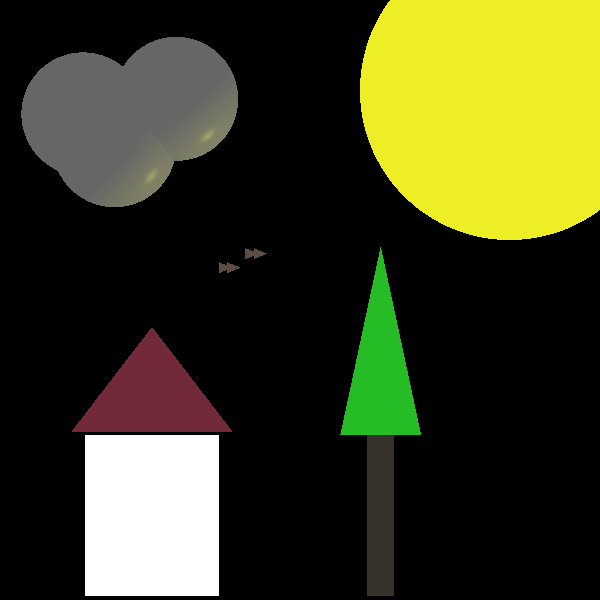
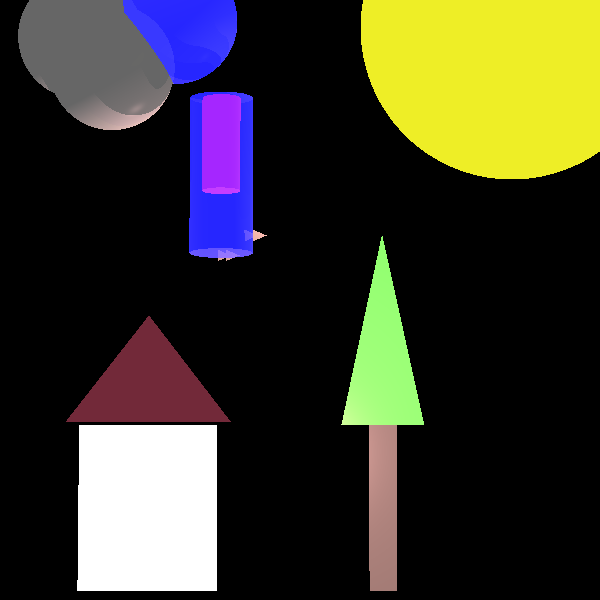
added cylinders and moved the camera in bonus pic

diff --git a/unitTests/renderer/ReflectionRefractionTests.java b/unitTests/renderer/ReflectionRefractionTests.java
@@ -5,6 +5,7 @@ package renderer;
 
 import static java.awt.Color.*;
 
+import geometries.Cylinder;
 import geometries.Polygon;
 import lighting.DirectionalLight;
 import lighting.PointLight;
@@ -81,7 +82,7 @@ public class ReflectionRefractionTests {
          .writeToImage();
    }
 
-   /** Produce a picture of a two triangles lighted by a spot light with a
+   /** Produce a picture of two triangles lighted by a spot light with a
     * partially
     * transparent Sphere producing partial shadow */
    @Test
@@ -109,9 +110,13 @@ public class ReflectionRefractionTests {
          .writeToImage();
    }
    @Test
-
    public void allefectTestBounos() {
-      Camera camera = new Camera(new Point(0, 0, -1000), new Vector(0, 0, 1), new Vector(0, -1, 0)) .setVPSize(200, 200).setVPDistance(1000);
+      Camera camera = new Camera(new Point(0, 0, -1000), new Vector(0, 0, 1), new Vector(0, -1, 0))
+              .setVPSize(200, 200)
+              .moveTo(10)
+              .turnUp(8.1)
+              .moveUp(-160)
+              .setVPDistance(1000);
       scene.setAmbientLight(new AmbientLight(new Color(WHITE), 0.15)).background.add(new Color(white));
 
       scene.geometries.add( //
@@ -131,8 +136,8 @@ public class ReflectionRefractionTests {
                       .setMaterial(new Material().setKd(0.5).setKs(0.5).setShininess(60))
                       .setEmission(new Color(java.awt.Color.darkGray)),
               new Sphere( 20, new Point(-40, -65, -30))
-                      .setMaterial(new Material().setKd(0.5).setKs(0.5).setShininess(60))
-                      .setEmission(new Color(java.awt.Color.darkGray)),
+                      .setEmission(new Color(BLUE))
+                      .setMaterial(new Material().setKd(0.4).setKs(0.3).setShininess(120).setKt(0.3)),
 
               new Polygon(new Point(25, 110, 115), new Point(35, 110, 115), new Point(35, 50, 115), new Point(25, 50, 115))
                       .setMaterial(new Material().setKd(0.5).setKs(0.5).setShininess(60))
@@ -155,12 +160,18 @@ public class ReflectionRefractionTests {
                       .setMaterial(new Material().setKd(0.5).setKs(0.5).setShininess(60))
               , new Triangle(new Point(-17, -15, 101), new Point(-17, -19, 99), new Point(-12, -17, 100))
                       .setMaterial(new Material().setKd(0.5).setKs(0.5).setShininess(60))
-                      .setEmission(new Color(54, 40, 30))
+                      .setEmission(new Color(54, 40, 30)),
+              new Cylinder(10, new Ray(new Point(-25,-40,-30), new Vector(0,1,0)), 50).setEmission(new Color(BLUE)) //
+                      .setMaterial(new Material().setKd(0.3).setKs(0.2).setShininess(100).setKt(0.5)),
+              new Cylinder(6, new Ray(new Point(-25,-40,-30), new Vector(0,1,0)), 30).setEmission(new Color(red)) //
+                      .setMaterial(new Material().setKd(0.5).setKs(0.5).setShininess(100))
 
       );
 
 
       scene.lights.add(new SpotLight(new Color(yellow), new Point(60, 50, 0), new Vector(0, 0, -1)) //
+              .setKl(4E-5).setKq(2E-7));
+      scene.lights.add(new PointLight(new Color(pink),new Point(0, 50, 0)) //
               .setKl(4E-5).setKq(2E-7));
 
 
